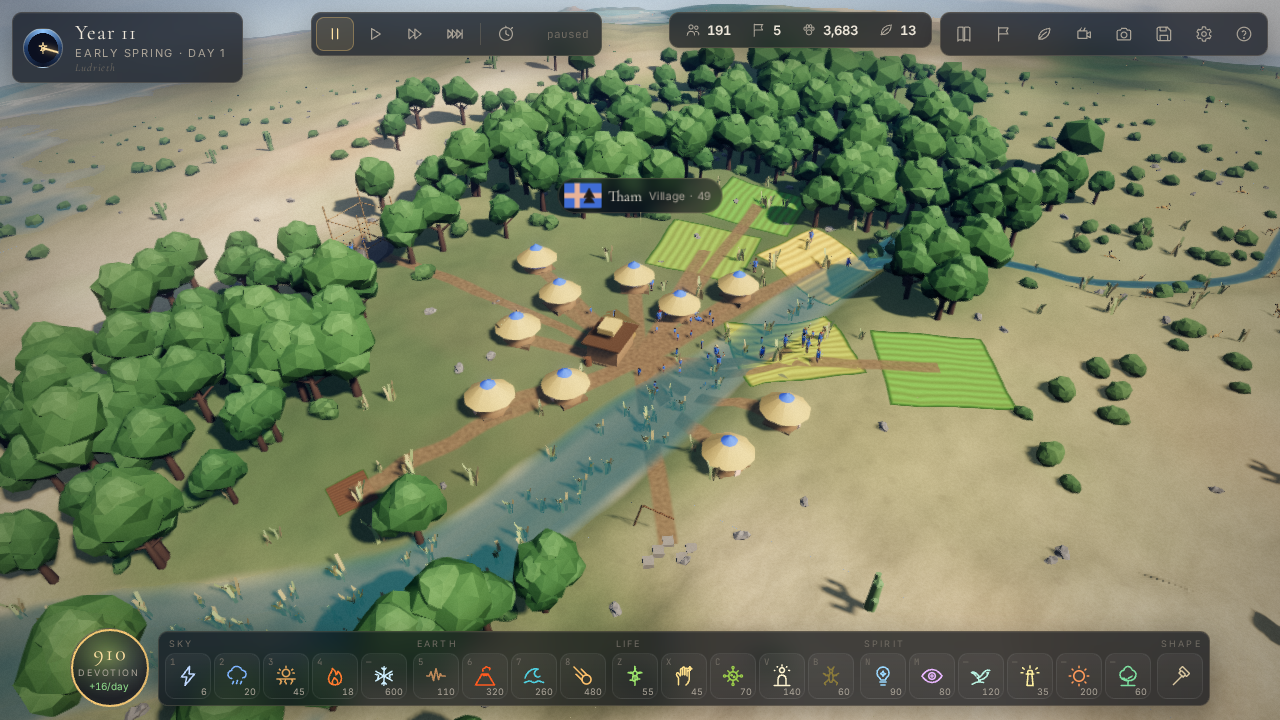
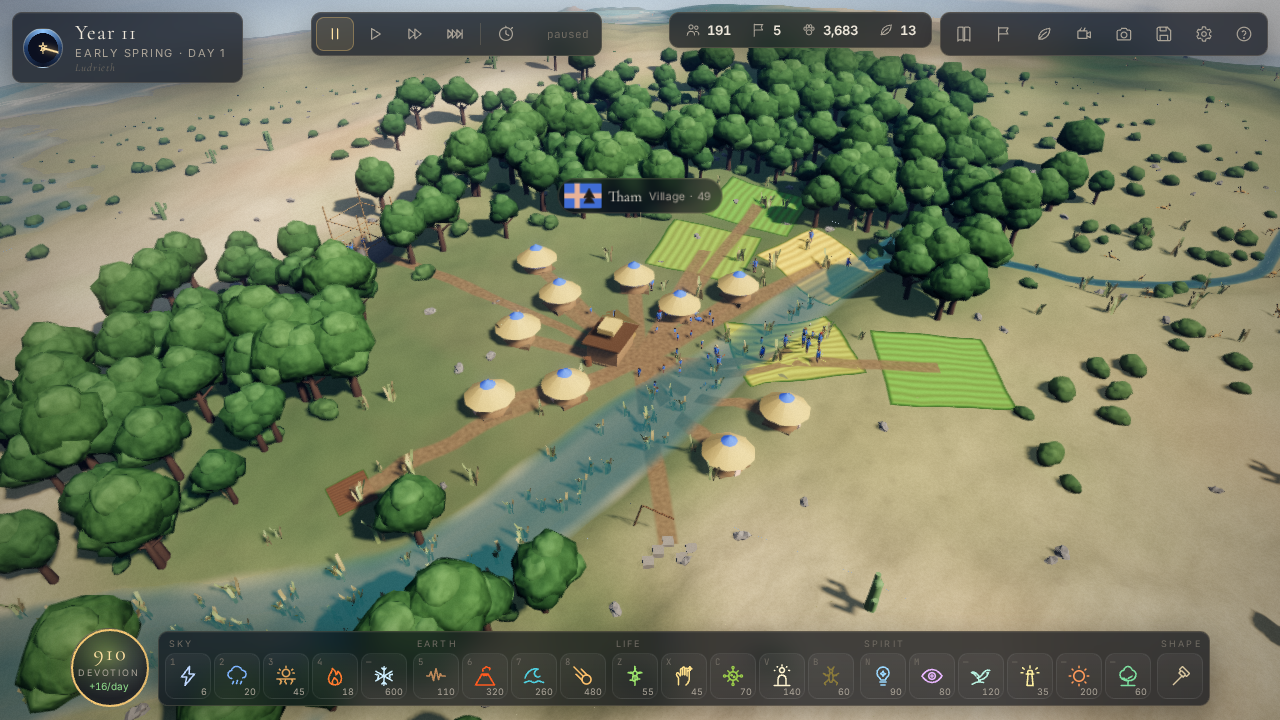
Soft foliage (welded, smooth-shaded crowns with leaf-clump relief), smooth near conifers; begin capture holds the clock; fresh landscape captures
Claude-Session: https://claude.ai/code/session_01P1K7jeGpkvrVy88twc6oDA

diff --git a/src/render/vegetation.ts b/src/render/vegetation.ts
@@ -35,17 +35,17 @@ function buildFarModel(type: VegType): THREE.BufferGeometry | null {
   switch (type) {
     case 'broadleaf':
       b.cylinder(0.2, 0.36, 3.4, 4, V3(0, -0.4, 0), { color: bark, ao: 0.4 });
-      b.blob(2.05, 0, V3(0, 4.6, 0), V3(1.3, 1.0, 1.3), { color: lin(0x40692a), sway: 0.7, jitter: 0.2, ao: 0.45, flat: true });
-      b.blob(1.3, 0, V3(0.9, 4.0, 0.2), V3(1, 0.85, 1), { color: lin(0x355a22), sway: 0.7, jitter: 0.2, ao: 0.5, flat: true });
+      b.blob(2.05, 0, V3(0, 4.6, 0), V3(1.3, 1.0, 1.3), { color: lin(0x40692a), sway: 0.7, jitter: 0.2, ao: 0.45 });
+      b.blob(1.3, 0, V3(0.9, 4.0, 0.2), V3(1, 0.85, 1), { color: lin(0x355a22), sway: 0.7, jitter: 0.2, ao: 0.5 });
       break;
     case 'birch':
       b.cylinder(0.12, 0.2, 4.4, 4, V3(0, -0.4, 0), { color: barkLight, ao: 0.3 });
-      b.blob(1.25, 0, V3(0, 4.1, 0), V3(1.0, 1.55, 1.0), { color: lin(0x708f38), sway: 0.8, jitter: 0.25, ao: 0.4, flat: true });
+      b.blob(1.25, 0, V3(0, 4.1, 0), V3(1.0, 1.55, 1.0), { color: lin(0x708f38), sway: 0.8, jitter: 0.25, ao: 0.4 });
       break;
     case 'conifer':
       b.cylinder(0.16, 0.3, 2.2, 4, V3(0, -0.4, 0), { color: bark, ao: 0.4 });
-      b.cone(2.2, 3.8, 6, V3(0, 1.3, 0), { color: lin(0x284a31), sway: 0.3, ao: 0.55, flat: true });
-      b.cone(1.45, 3.4, 6, V3(0, 3.6, 0), { color: lin(0x1f3d28), sway: 0.5, ao: 0.55, flat: true });
+      b.cone(2.2, 3.8, 6, V3(0, 1.3, 0), { color: lin(0x284a31), sway: 0.3, ao: 0.55 });
+      b.cone(1.45, 3.4, 6, V3(0, 3.6, 0), { color: lin(0x1f3d28), sway: 0.5, ao: 0.55 });
       break;
     case 'palm': {
       const trunk = lin(0x8a6f4c);
@@ -60,8 +60,8 @@ function buildFarModel(type: VegType): THREE.BufferGeometry | null {
       break;
     }
     case 'bush':
-      b.blob(0.85, 0, V3(0, 0.45, 0), V3(1.2, 0.8, 1.2), { color: lin(0x4a6a2e), sway: 0.4, jitter: 0.25, ao: 0.6, flat: true });
-      b.blob(0.6, 0, V3(0.55, 0.3, 0.2), V3(1, 0.8, 1), { color: lin(0x3d5a27), sway: 0.4, jitter: 0.25, ao: 0.6, flat: true });
+      b.blob(0.85, 0, V3(0, 0.45, 0), V3(1.2, 0.8, 1.2), { color: lin(0x4a6a2e), sway: 0.4, jitter: 0.25, ao: 0.6 });
+      b.blob(0.6, 0, V3(0.55, 0.3, 0.2), V3(1, 0.8, 1), { color: lin(0x3d5a27), sway: 0.4, jitter: 0.25, ao: 0.6 });
       break;
     case 'cactus': {
       const g = lin(0x5d8043);
@@ -86,26 +86,26 @@ export function buildModel(type: VegType, far = false): THREE.BufferGeometry {
       b.cylinder(0.08, 0.14, 1.6, 5, V3(0, 2.2, 0), { color: bark, sway: 0.2 }, E(0, 0, 0.9));
       b.cylinder(0.08, 0.14, 1.5, 5, V3(0, 2.0, 0), { color: bark, sway: 0.2 }, E(0.8, 0, -0.5));
       const leaf = lin(0x3d6526), leaf2 = lin(0x4b7530), leaf3 = lin(0x355a22);
-      b.blob(1.9, 1, V3(0, 4.6, 0), V3(1.1, 0.85, 1.1), { color: leaf, sway: 0.7, jitter: 0.25, ao: 0.45, flat: true });
-      b.blob(1.4, 1, V3(1.2, 3.9, 0.3), V3(1, 0.85, 1), { color: leaf2, sway: 0.7, jitter: 0.25, ao: 0.5, flat: true });
-      b.blob(1.3, 1, V3(-1.1, 4.0, -0.4), V3(1, 0.85, 1), { color: leaf3, sway: 0.7, jitter: 0.25, ao: 0.5, flat: true });
-      b.blob(1.2, 1, V3(0.2, 5.6, -0.3), V3(1, 0.9, 1), { color: leaf2, sway: 0.8, jitter: 0.25, ao: 0.3, flat: true });
+      b.blob(1.9, 1, V3(0, 4.6, 0), V3(1.1, 0.85, 1.1), { color: leaf, sway: 0.7, jitter: 0.25, ao: 0.45 });
+      b.blob(1.4, 1, V3(1.2, 3.9, 0.3), V3(1, 0.85, 1), { color: leaf2, sway: 0.7, jitter: 0.25, ao: 0.5 });
+      b.blob(1.3, 1, V3(-1.1, 4.0, -0.4), V3(1, 0.85, 1), { color: leaf3, sway: 0.7, jitter: 0.25, ao: 0.5 });
+      b.blob(1.2, 1, V3(0.2, 5.6, -0.3), V3(1, 0.9, 1), { color: leaf2, sway: 0.8, jitter: 0.25, ao: 0.3 });
       break;
     }
     case 'birch': {
       b.cylinder(0.12, 0.2, 4.4, 7, V3(0, -0.4, 0), { color: barkLight, jitter: 0.2, ao: 0.3 });
       const leaf = lin(0x6b8e36), leaf2 = lin(0x7d9c40);
-      b.blob(1.15, 1, V3(0, 4.6, 0), V3(0.95, 1.35, 0.95), { color: leaf, sway: 0.8, jitter: 0.3, ao: 0.4, flat: true });
-      b.blob(0.95, 1, V3(0.55, 3.5, 0.2), V3(1, 1.15, 1), { color: leaf2, sway: 0.8, jitter: 0.3, ao: 0.45, flat: true });
-      b.blob(0.9, 1, V3(-0.5, 3.8, -0.3), V3(1, 1.15, 1), { color: leaf, sway: 0.8, jitter: 0.3, ao: 0.45, flat: true });
-      b.blob(0.8, 1, V3(0.1, 2.8, 0.45), V3(1, 1.1, 1), { color: leaf2, sway: 0.7, jitter: 0.3, ao: 0.5, flat: true });
+      b.blob(1.15, 1, V3(0, 4.6, 0), V3(0.95, 1.35, 0.95), { color: leaf, sway: 0.8, jitter: 0.3, ao: 0.4 });
+      b.blob(0.95, 1, V3(0.55, 3.5, 0.2), V3(1, 1.15, 1), { color: leaf2, sway: 0.8, jitter: 0.3, ao: 0.45 });
+      b.blob(0.9, 1, V3(-0.5, 3.8, -0.3), V3(1, 1.15, 1), { color: leaf, sway: 0.8, jitter: 0.3, ao: 0.45 });
+      b.blob(0.8, 1, V3(0.1, 2.8, 0.45), V3(1, 1.1, 1), { color: leaf2, sway: 0.7, jitter: 0.3, ao: 0.5 });
       break;
     }
     case 'conifer': {
       b.cylinder(0.16, 0.3, 2.2, 6, V3(0, -0.4, 0), { color: bark, ao: 0.4 });
       const needle = lin(0x1f3d28), needle2 = lin(0x284a31);
       const tiers = [[2.3, 2.6, 1.2], [1.9, 2.4, 2.6], [1.5, 2.2, 3.9], [1.05, 2.0, 5.1], [0.6, 1.7, 6.2]];
-      tiers.forEach(([r, h, y], i) => b.cone(r, h, 8, V3(0, y, 0), { color: i % 2 ? needle : needle2, sway: 0.25 + i * 0.1, jitter: 0.2, ao: 0.55, flat: true }));
+      tiers.forEach(([r, h, y], i) => b.cone(r, h, 8, V3(0, y, 0), { color: i % 2 ? needle : needle2, sway: 0.25 + i * 0.1, jitter: 0.2, ao: 0.55 }));
       break;
     }
     case 'palm': {
@@ -138,9 +138,9 @@ export function buildModel(type: VegType, far = false): THREE.BufferGeometry {
     }
     case 'bush': {
       const c1 = lin(0x4a6a2e), c2 = lin(0x3d5a27);
-      b.blob(0.8, 1, V3(0, 0.45, 0), V3(1.1, 0.8, 1.1), { color: c1, sway: 0.4, jitter: 0.3, ao: 0.6, flat: true });
-      b.blob(0.6, 1, V3(0.6, 0.35, 0.2), V3(1, 0.8, 1), { color: c2, sway: 0.4, jitter: 0.3, ao: 0.6, flat: true });
-      b.blob(0.55, 1, V3(-0.5, 0.3, -0.3), V3(1, 0.8, 1), { color: c1, sway: 0.4, jitter: 0.3, ao: 0.6, flat: true });
+      b.blob(0.8, 1, V3(0, 0.45, 0), V3(1.1, 0.8, 1.1), { color: c1, sway: 0.4, jitter: 0.3, ao: 0.6 });
+      b.blob(0.6, 1, V3(0.6, 0.35, 0.2), V3(1, 0.8, 1), { color: c2, sway: 0.4, jitter: 0.3, ao: 0.6 });
+      b.blob(0.55, 1, V3(-0.5, 0.3, -0.3), V3(1, 0.8, 1), { color: c1, sway: 0.4, jitter: 0.3, ao: 0.6 });
       break;
     }
     case 'snag': {
@@ -239,6 +239,18 @@ void main() {
   // (autumn keeps its colour).
   col = mix(vec3(dot(col, vec3(0.2126, 0.7152, 0.0722))), col, mix(0.82, 1.0, vTint.y * vFoliage));
   vec3 N = normalize(vNormal);
+  // Leaf clumps: billowy cells bumped into the crown in world space, so a crown
+  // reads as masses of foliage rather than one faceted solid (the toy-like
+  // facets clashed with the softly lit world around them).
+  if (vFoliage > 0.5) {
+    vec3 q = vWorld * 0.22;
+    float e = 0.05;
+    float c0 = texture(uCloudNoise, q).r;
+    vec3 g = vec3(texture(uCloudNoise, q + vec3(e, 0.0, 0.0)).r - c0, texture(uCloudNoise, q + vec3(0.0, e, 0.0)).r - c0, texture(uCloudNoise, q + vec3(0.0, 0.0, e)).r - c0) / e;
+    g -= N * dot(g, N);
+    N = normalize(N - g * 0.06);
+    col *= 0.72 + 0.5 * c0;
+  }
   vec3 c = shadeObject(vWorld, N, col, vFoliage * (1.0 - snow), 0.0, vec3(0.0));
   outColor = vec4(c, 1.0);
 }

diff --git a/src/render/meshkit.ts b/src/render/meshkit.ts
@@ -111,9 +111,13 @@ export class MeshBuilder {
       if (k === undefined) { k = 1 + (this.rand() - 0.5) * noise * 2; map.set(key, k); }
       p.setXYZ(i, p.getX(i) * k, p.getY(i) * k, p.getZ(i) * k);
     }
-    g.computeVertexNormals();
+    // Icosahedra come unindexed (one vertex per face corner), so normals are
+    // faceted unless the corners are welded first: smooth blobs weld them.
+    const src = o.flat ? g : weld(g);
+    src.computeVertexNormals();
     const m = new THREE.Matrix4().compose(at, new THREE.Quaternion(), scale);
-    this.addGeometry(g, m, o);
+    this.addGeometry(src, m, o);
+    if (src !== g) src.dispose();
     g.dispose();
     return this;
   }
@@ -247,4 +251,27 @@ export function lin(hex: number): [number, number, number] {
   // THREE.Color converts sRGB hex input to the linear working space.
   const c = new THREE.Color().setHex(hex);
   return [c.r, c.g, c.b];
+}
+
+/** Weld coincident corners of an unindexed geometry into an indexed one
+ *  (positions only), so computed normals are smooth across faces. */
+function weld(g: THREE.BufferGeometry): THREE.BufferGeometry {
+  const p = g.getAttribute('position');
+  const map = new Map<string, number>();
+  const pos: number[] = [];
+  const idx: number[] = [];
+  for (let i = 0; i < p.count; i++) {
+    const key = `${p.getX(i).toFixed(4)},${p.getY(i).toFixed(4)},${p.getZ(i).toFixed(4)}`;
+    let k = map.get(key);
+    if (k === undefined) {
+      k = pos.length / 3;
+      map.set(key, k);
+      pos.push(p.getX(i), p.getY(i), p.getZ(i));
+    }
+    idx.push(k);
+  }
+  const out = new THREE.BufferGeometry();
+  out.setAttribute('position', new THREE.Float32BufferAttribute(pos, 3));
+  out.setIndex(idx);
+  return out;
 }

diff --git a/PROGRESS.md b/PROGRESS.md
@@ -23,24 +23,26 @@ Working and verified (tests, screenshots or measurements):
 * Audio: generative score, ambience, spatial effects, UI sounds.
 * Tests: 9 fast suites (25 tests); soak: scenarios (8 × win / lose / idle-loses, 24 tests),
   500-year soak with bounded structures (building slots reused, DECISIONS 48).
-* Harness: `npm run shots` (12 viewpoints, zero console errors), UI captures, 5-minute
+* Harness: `npm run shots` (13 viewpoints, zero console errors), UI captures, 5-minute
   monkey test (two seeds, zero errors), `scripts/perf.mjs` renderer table,
   `scripts/bench.mts` simulation table.
 * Docs: README (screenshots, design notes), FINAL_REPORT (evidence, perf tables, scores,
-  proudest, limitations, next five), QUALITY_LOG passes 0.1–3 and the delight list.
+  proudest, limitations, next five), QUALITY_LOG passes 0.1–7 and the delight list.
 
 Final phase (Phase 9) status:
-* Adversarial reviews: Pass 4 (5/4/4/4 on beauty/coherence/polish/wow) and Pass 5
-  (5/3/4/4). Every finding verified and dispositioned in QUALITY_LOG; ~40 fixes across
-  sky, clouds, water, lakes, terrain palette, fog (now rendered), VFX, night, UI.
+* Adversarial reviews by an independent agent, Passes 4–7: beauty 5 · 5 · 5 · 5,
+  coherence 4 · 3 · 4 · 4, polish 4 · 4 · 3 · 4, wow 4 · 4 · 5 · 4. Every finding
+  verified (crops, height picks, hiding components) and dispositioned with its root
+  cause in QUALITY_LOG; ~90 fixes across sky, clouds, water, estuaries, lakes, terrain
+  and rock, lava, night lights, VFX (particles now composited after the haze), fonts,
+  names, chronicle, ecology chart and layout.
+* FINAL_REPORT's quality section now carries the reviewer's scores and the explanation
+  of the shortfall (two art languages, no art-directed hero shots, software rendering).
 * Fog: the simulated field (dawn cycle, rain washout, shores) is drawn in valleys, over
   the sea and around a camera standing in it; `fog` viewpoint and screenshot.
-* Remaining known limitations are listed in FINAL_REPORT.md (no GPU in the container,
-  single-threaded simulation below 100× at scale, stylised low-poly models, and the
-  reviewer's view that the art reads as a strong indie rather than a studio title).
 
-Next (if resumed): act on the latest review in QUALITY_LOG, re-run `npm run shots`,
-the UI and title captures, `npm test`, and the soaks if simulation code changed.
+Next (if resumed): a fifth review (Pass 8) of the latest captures, then act on it; the
+scenario soak after any change under `src/sim` or `src/core`.
 
 ## How to resume
 

diff --git a/FINAL_REPORT.md b/FINAL_REPORT.md
@@ -4,7 +4,8 @@ GENESIS is a browser god-game on a small, fully simulated planet: tectonic terra
 hydrology, climate and weather, an ecosystem of plants and 13 animal species, and
 tribes of individually simulated people who build, trade, pray, marry, sicken, go to
 war and write their god into scripture. The player shapes it with 20 divine powers and
-terraforming brushes. Everything is procedural; there are no asset files.
+terraforming brushes. Everything in the world is procedural; there are no asset files
+(the interface's three typefaces are bundled open-source fonts).
 
 This report lists what was built, the evidence that it works, the measured performance,
 the final quality scores, what I am proudest of, what is still imperfect and what I
@@ -15,7 +16,7 @@ would build next.
 | Item | Status | Evidence |
 |---|---|---|
 | `npm install && npm run dev` works | ✅ | Vite dev server is what every harness script boots (shots, monkey, perf, UI checks) |
-| `npm run build` | ✅ | `tsc --noEmit && vite build` succeeds (≈900 kB main chunk, 234 kB worker) |
+| `npm run build` | ✅ | `tsc --noEmit && vite build` succeeds (940 kB main chunk, 238 kB worker, nine woff2 typeface subsets of ~23 kB each) |
 | `npm test` passes | ✅ | 9 suites, 25 tests (see below) |
 | `npm run shots` regenerates the screenshots | ✅ | 13 viewpoints in `docs/screenshots`, "zero console errors/warnings" gate |
 | Zero console errors | ✅ | Every shots/UI/perf run and the 5-minute monkey test (see below) |
@@ -219,7 +220,8 @@ play-testing, and no real GPU.
    with forced storms), and a building list that grew for five centuries (found by the
    500-year soak's trajectory, not its pass/fail).
 5. **Nothing downloaded.** Terrain, clouds, stars, the moon, every model, the music and
-   the sound effects are generated by code at load time.
+   the sound effects are generated by code at load time; only the interface typefaces
+   are bundled files.
 
 ## Known limitations
 

diff --git a/QUALITY_LOG.md b/QUALITY_LOG.md
@@ -253,6 +253,7 @@ by cropping or by hiding components one at a time; the causes and fixes:
 | Settlement label hides the town hall | real | anchored 6 u above the centre → hung above the rooftops with a leader line |
 | Ecology chart: series flat on zero, unrounded ticks | real | linear axis → square-root scale with round ticks and a time axis |
 | Title logo glow banding; dot grid | real | one wide strong glow on 8-bit output; film grain from a sin() hash that loses precision → two-layer glow; integer-hash grain |
+| Faceted icosphere crowns beside the soft globe (the "two art languages") | real, partly | three.js icospheres are unindexed, so every blob was flat-shaded whatever its option said → blobs are welded and smooth-shaded, crowns carry billowy leaf-clump relief; rocks and buildings stay faceted |
 | Trees bigger than huts | not a defect | a broadleaf crown is 6–10 m and a hut 4–5 m; the loose rocks were the scale breakers and are fixed |
 | Aurora a flat green smear | partly open | the curtains are marched in the atmosphere pass; seen from 1,150 u they lie across the night side — left for the next pass |
 

diff --git a/DECISIONS.md b/DECISIONS.md
@@ -207,3 +207,8 @@ Each entry: decision — why.
     30% height; the shading keeps the full height field, so only the outline changes.
 59. **Opening on the lit side.** Play opens on the largest settlement in daylight (the
     largest overall may sit at midnight), for scenarios and free play alike.
+60. **Soft foliage, faceted rock.** Tree crowns, bushes and the bodies of people and
+    animals are smooth-shaded (welded vertices) and crowns carry billowy leaf-clump
+    relief in world space; rocks and buildings keep their facets. The flat-shaded
+    crowns read as toys beside the softly lit globe, the reviewers' main objection;
+    crisp facets stay where real things are faceted.

diff --git a/README.md b/README.md
@@ -9,8 +9,9 @@ trade, pray, marry, fall sick, go to war and remember what their god did to
 them. You shape it all from above with twenty divine powers and a set of
 terraforming brushes — and your deeds become their scripture.
 
-Everything you see is generated at load time from a seed: terrain, textures,
-meshes, clouds, stars, names, flags, music and sound. There are no asset files.
+Everything in the world is generated at load time from a seed: terrain, textures,
+meshes, clouds, stars, names, flags, music and sound. There are no asset files; the
+only bundled media are the interface's three open-source typefaces.
 
 ![The planet from orbit](docs/screenshots/orbit.png)
 
